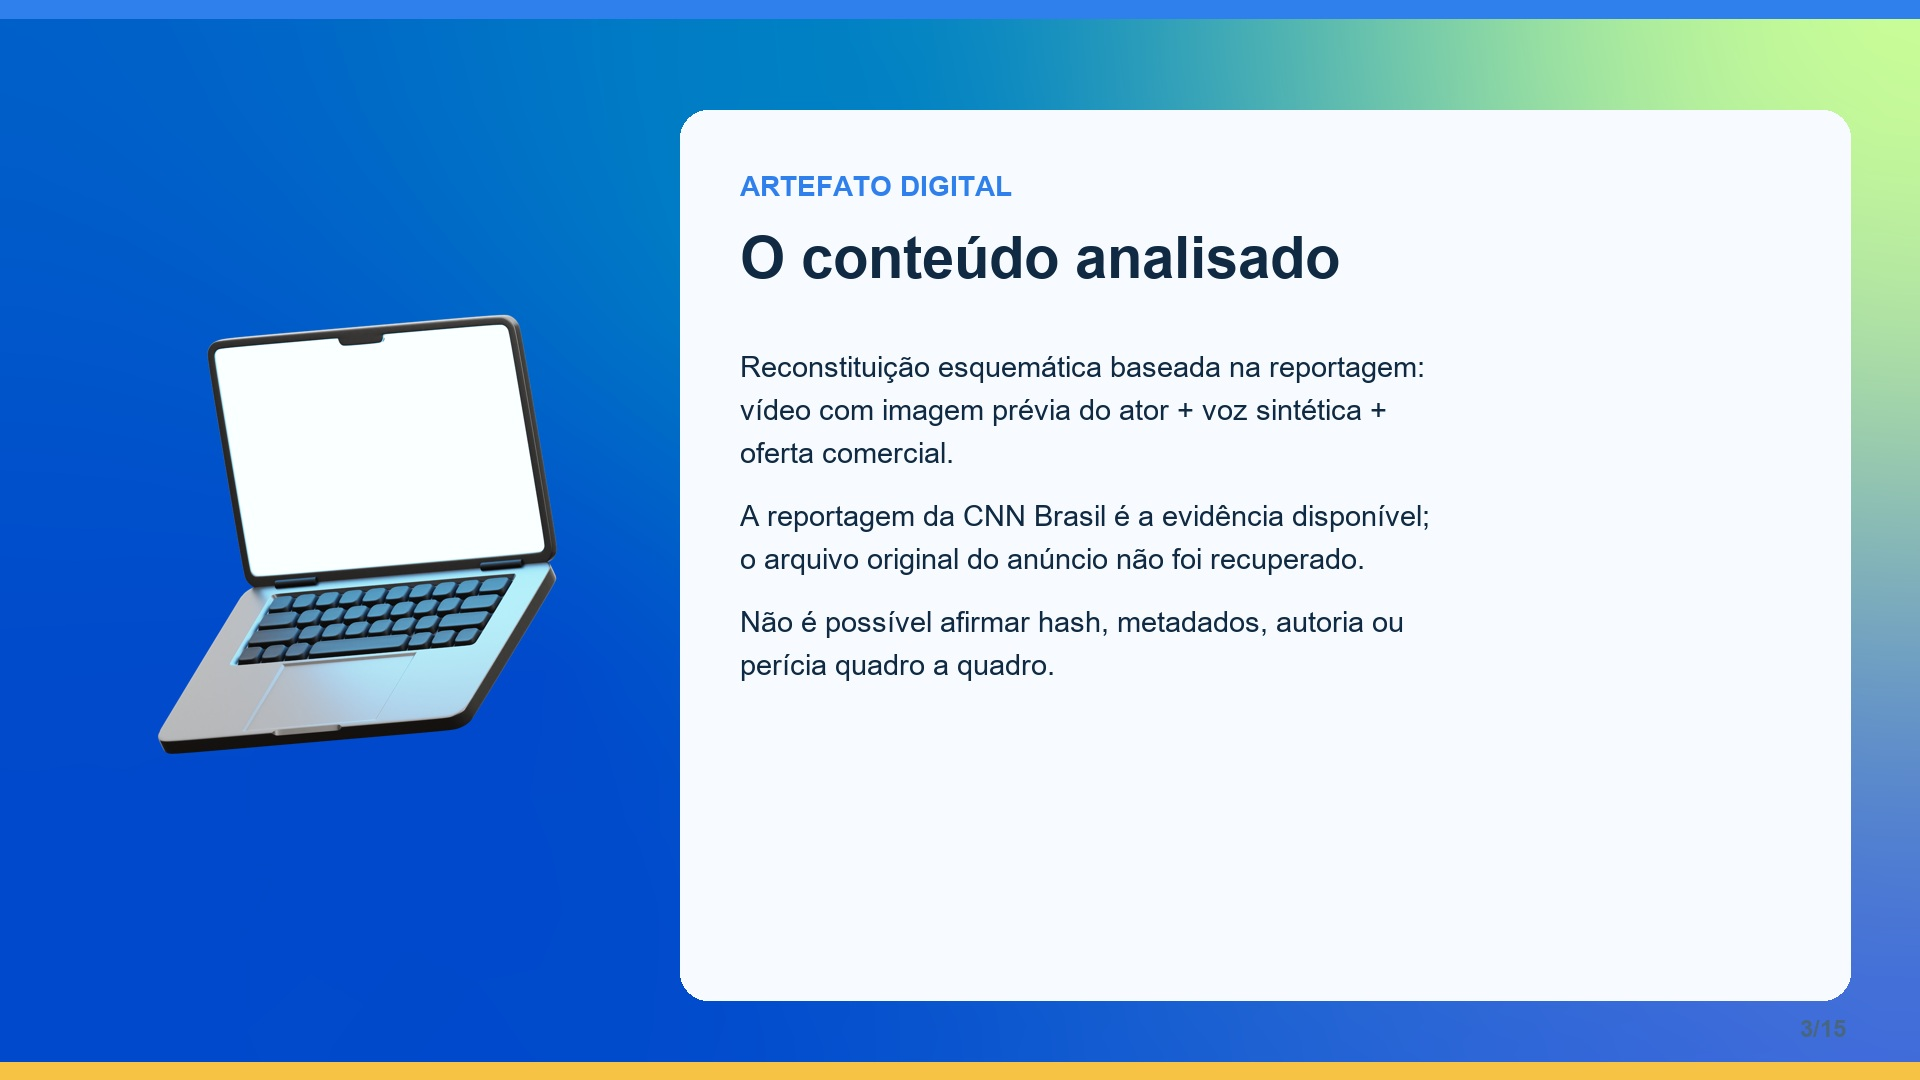
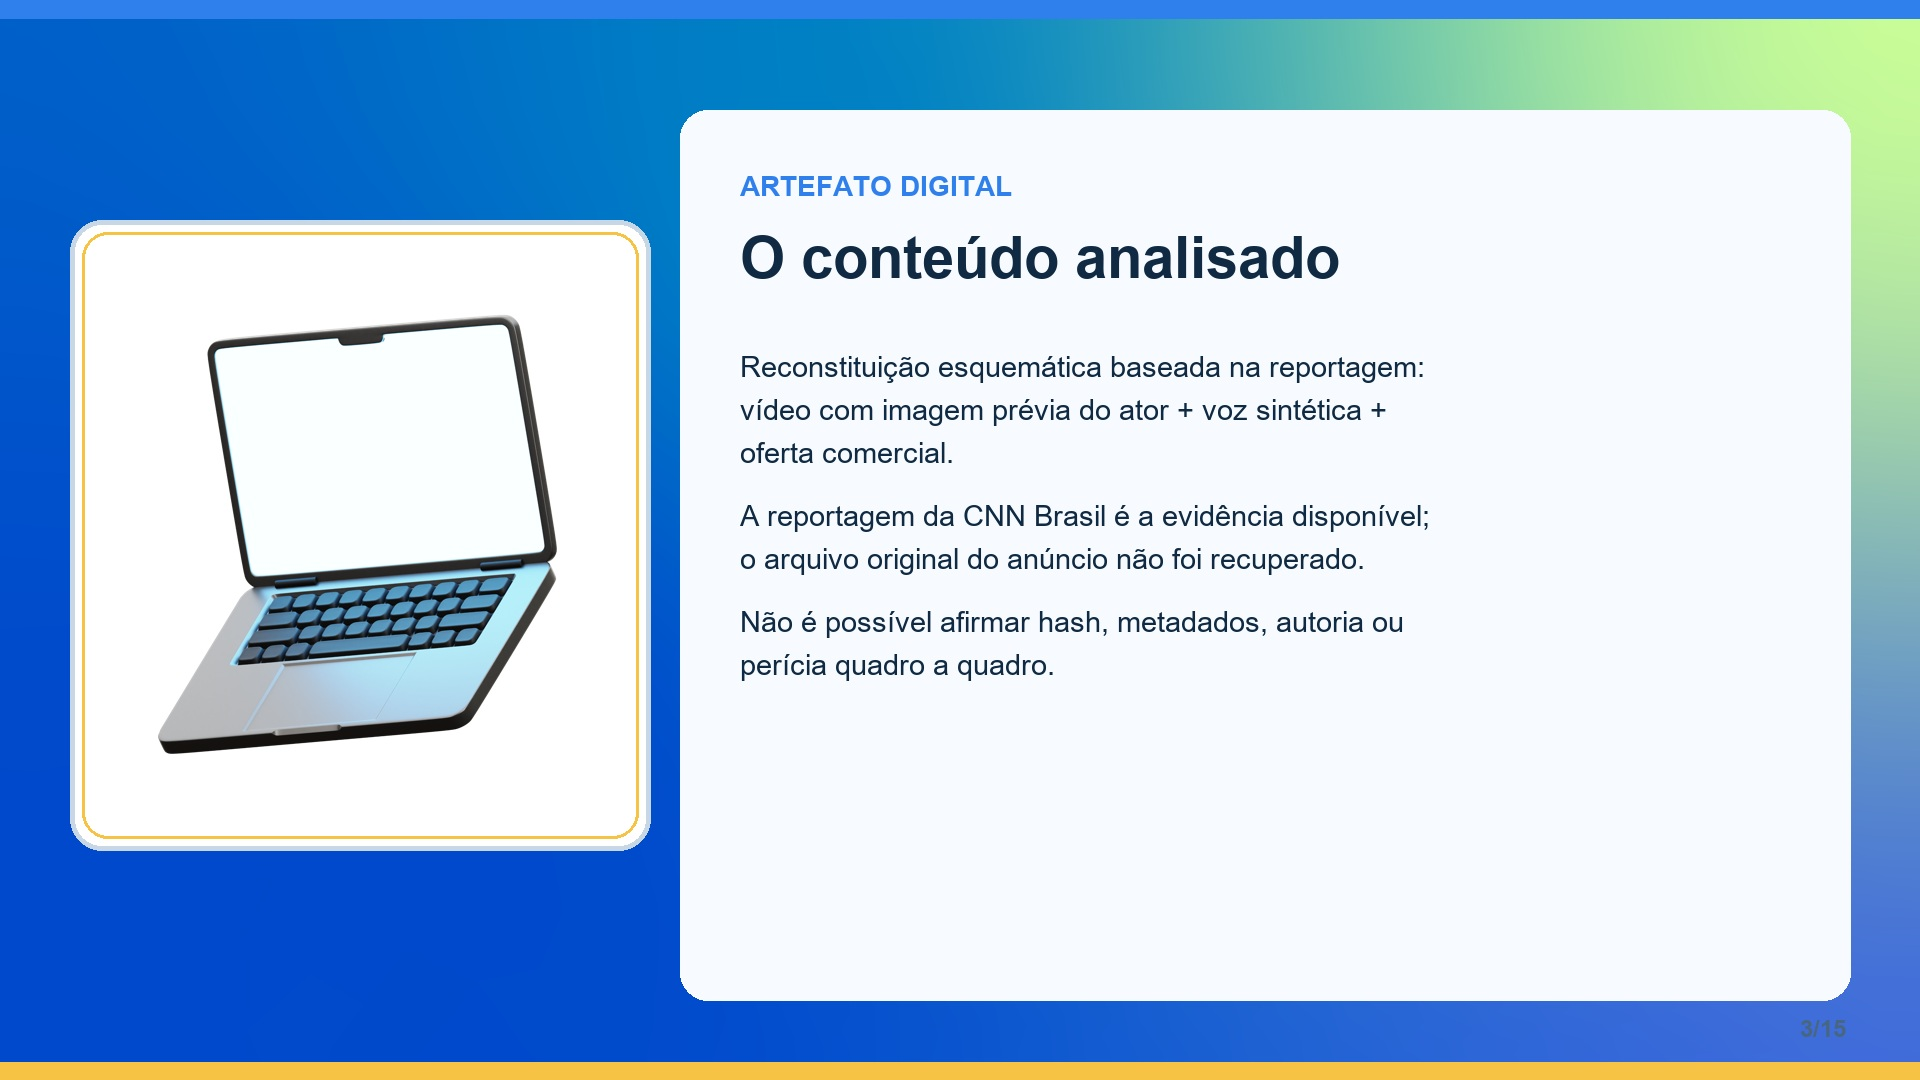
fix: separar ilustracoes do fundo azul

Changed region(s): [[0.0312, 0.1833, 0.3438, 0.7944]]

diff --git a/scripts/generate_n3_jpgs.py b/scripts/generate_n3_jpgs.py
@@ -21,7 +21,7 @@ S=[
 ('REFERÊNCIAS','Fontes utilizadas',['CNN BRASIL (2024). Marcos Palmeira: rosto do ator é usado com IA em golpe no Instagram.','MIRSKY; LEE (2021). The creation and detection of deepfakes. ACM Computing Surveys.','VACCARI; CHADWICK (2020). Deepfakes and disinformation. Social Media + Society.','BRASIL (2018). Lei Geral de Proteção de Dados. ANPD (2023). Guia orientativo. NIST (2023). AI Risk Management Framework.'],'template-icones-ilustracoes-107.png')]
 for i,(k,t,ps,img) in enumerate(S,1):
  bg=Image.open(A/'template-capa-002.png').convert('RGB').resize((1920,1080))
- im=bg.copy(); d=ImageDraw.Draw(im); d.rectangle((0,0,1920,18),fill=(47,128,237)); d.rectangle((0,1062,1920,1080),fill=(246,195,68)); d.rounded_rectangle((680,110,1850,1000),radius=28,fill=(247,251,255,238)); a=Image.open(A/img).convert('RGBA'); a.thumbnail((500,500)); im.paste(a,(110,280),a); d.text((740,170),k,font=font(28,1),fill=(47,128,237)); d.text((740,225),t,font=font(58,1),fill=(16,42,67)); y=350
+ im=bg.copy(); d=ImageDraw.Draw(im); d.rectangle((0,0,1920,18),fill=(47,128,237)); d.rectangle((0,1062,1920,1080),fill=(246,195,68)); d.rounded_rectangle((680,110,1850,1000),radius=28,fill=(247,251,255,238)); d.rounded_rectangle((70,220,650,850),radius=32,fill=(255,255,255),outline=(199,215,229),width=5); d.rounded_rectangle((82,232,638,838),radius=26,outline=(246,195,68),width=3); a=Image.open(A/img).convert('RGBA'); a.thumbnail((500,500)); im.paste(a,(110,280),a); d.text((740,170),k,font=font(28,1),fill=(47,128,237)); d.text((740,225),t,font=font(58,1),fill=(16,42,67)); y=350
  for p in ps:
   for line in textwrap.wrap(p,52):d.text((740,y),line,font=font(29),fill=(16,42,67));y+=43
   y+=20
